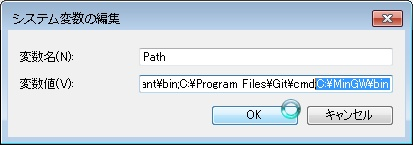
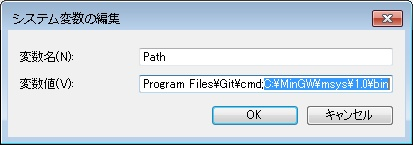
Path設定の間違いを修正
【誤】
「;」＋「MinGWのインストール先パス」＋「\bin」
【正】
「;」＋「MinGWのインストール先パス」＋「\msys\1.0\bin」

Changed region(s): [[0.3487, 0.5241, 0.9007, 0.6345], [0.4939, 0.6621, 0.7264, 0.8552], [0.9298, 0.5241, 0.9588, 0.6345]]

diff --git a/setup_MinGW_ssh_and_rsync.md b/setup_MinGW_ssh_and_rsync.md
@@ -59,7 +59,7 @@
 
 ![](./images/setup_MinGW_ssh_and_rsync/WS000013.JPG)
 
-変数値の末尾に、「;」＋「MinGWのインストール先パス」＋「\bin」を追記する。    
-（「C:\MinGW」にインストールした場合、「;C:\MinGW\bin」を追記）    
+変数値の末尾に、「;」＋「MinGWのインストール先パス」＋「\msys\1.0\bin」を追記する。    
+（「C:\MinGW」にインストールした場合、「;C:\MinGW\msys\1.0\bin」を追記）    
 
 「OK」をクリックしていき、コントロールパネルを閉じて終了。
